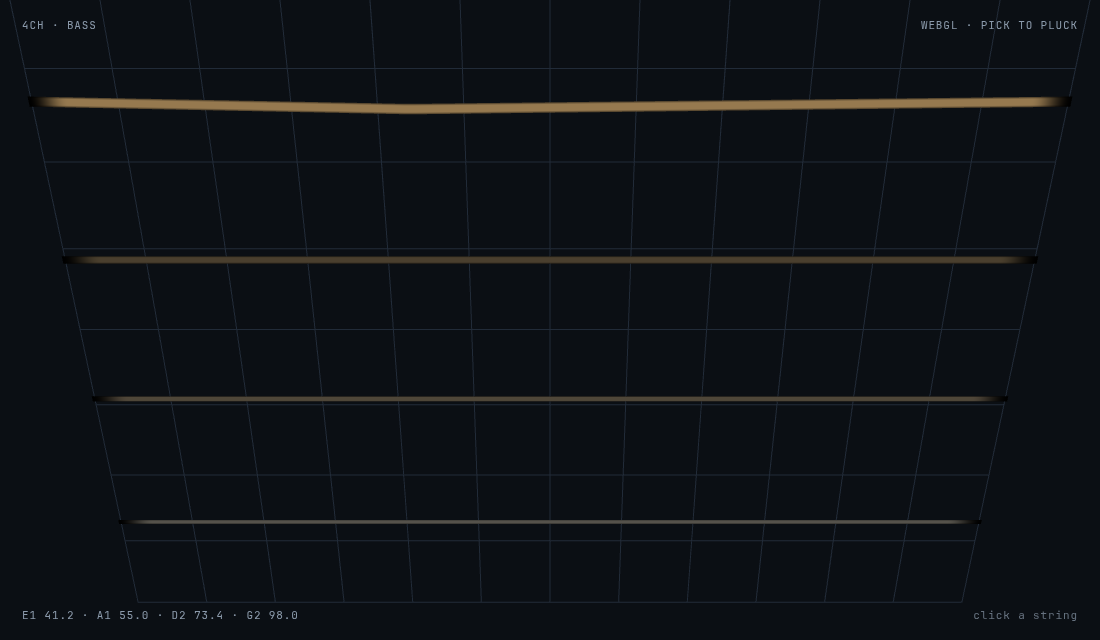
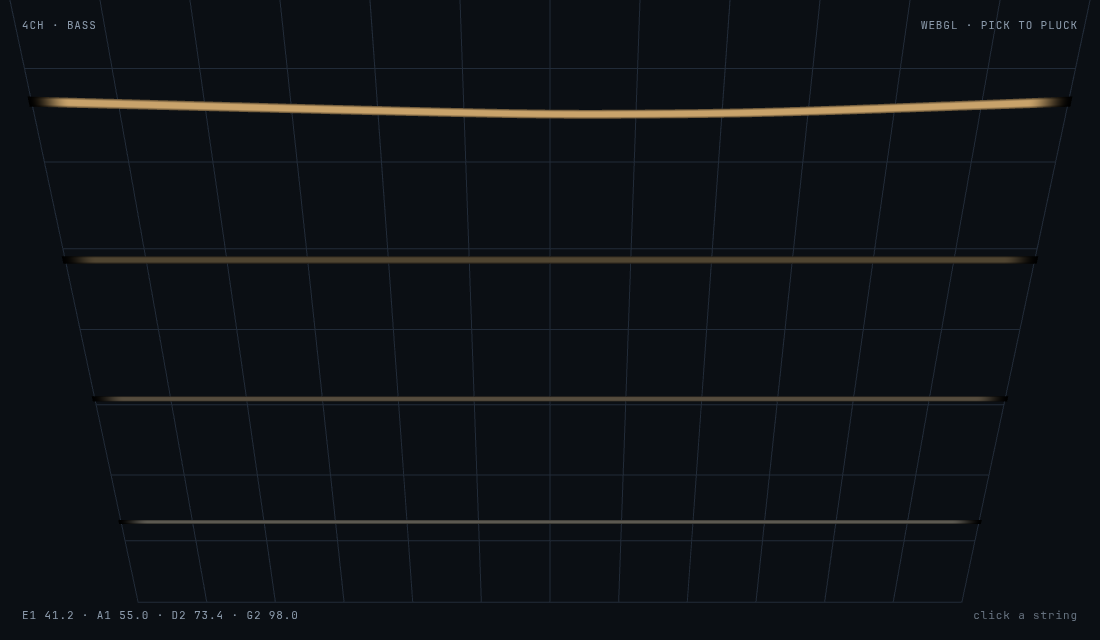
Put a modal pluck in the string shader
Replace the single sine with Fourier modes of a triangle pluck.
Click position chooses which harmonics speak; stiffness pulls
high modes sharp, like a wound bass string.

Changed region(s): [[0.0309, 0.125, 0.9582, 0.1875]]

diff --git a/strings/index.html b/strings/index.html
@@ -42,7 +42,7 @@
       { name: "D2", hz: 73.42, y: -0.30, width: 0.012, color: [0.89, 0.79, 0.64] },
       { name: "G2", hz: 97.99, y: -0.90, width: 0.010, color: [0.95, 0.92, 0.84] },
     ];
-    const X0 = -1.85, X1 = 1.85, SEGMENTS = 96;
+    const X0 = -1.85, X1 = 1.85, SEGMENTS = 192;
 
     const canvas = document.getElementById("c");
     const gl = canvas.getContext("webgl2", { antialias: true, alpha: false });
@@ -76,34 +76,53 @@
       layout(location=1) in float aU;
       layout(location=2) in float aSide;
       uniform mat4 uMVP;
-      uniform float uAmp, uPluck, uPhase, uWidth, uY;
+      uniform float uAmp, uPluck, uTime, uOmega, uWidth, uY;
       out float vU;
       out float vN;
-      float tri(float u, float p) {
-        p = clamp(p, 0.06, 0.94);
-        return u < p ? u / p : (1.0 - u) / (1.0 - p);
+      out float vEnergy;
+
+      // Fourier of a triangle pluck. Click position p decides which
+      // harmonics speak: neck is round, bridge has more snarl.
+      // Wound-bass stiffness (B) pulls high modes sharp, like a real E string.
+      float modal(float u, float t, float p, float omega, float B, float damp) {
+        p = clamp(p, 0.08, 0.92);
+        float y = 0.0;
+        const float pi = 3.14159265;
+        for (int n = 1; n <= 12; n++) {
+          float fn = float(n);
+          float a = sin(fn * pi * p) / (fn * fn);
+          float stiff = sqrt(1.0 + B * fn * fn);
+          float decay = exp(-damp * fn * t);
+          y += a * sin(fn * pi * u) * cos(omega * fn * stiff * t) * decay;
+        }
+        return y * 1.85;
       }
+
       void main() {
-        float disp = uAmp * tri(aU, uPluck) * sin(uPhase);
+        float zWave = modal(aU, uTime, uPluck, uOmega, 0.00038, 0.52);
+        // Second polarization, slightly detuned — the shimmer of a wound string.
+        float yWave = modal(aU, uTime, uPluck, uOmega * 1.004, 0.00031, 0.70);
         vec3 pos = aPos;
-        pos.y = uY + aSide * uWidth;
-        pos.z += disp;
+        pos.y = uY + aSide * uWidth + uAmp * yWave * 0.32;
+        pos.z += uAmp * zWave;
         vU = aU;
         vN = aSide;
+        vEnergy = abs(zWave) * uAmp;
         gl_Position = uMVP * vec4(pos, 1.0);
       }
     `, `#version 300 es
       precision highp float;
       in float vU;
       in float vN;
+      in float vEnergy;
       uniform vec3 uColor;
       uniform float uAmp;
       out vec4 outColor;
       void main() {
-        float edge = 1.0 - smoothstep(0.55, 1.0, abs(vN));
-        float glow = 0.35 + 0.65 * clamp(uAmp * 4.0, 0.0, 1.0);
-        vec3 col = uColor * (0.55 + 0.45 * edge) * glow;
-        float fade = smoothstep(0.0, 0.04, vU) * smoothstep(1.0, 0.96, vU);
+        float edge = 1.0 - smoothstep(0.45, 1.0, abs(vN));
+        float glow = 0.38 + 0.62 * clamp(uAmp * 3.2 + vEnergy * 2.4, 0.0, 1.0);
+        vec3 col = uColor * (0.52 + 0.48 * edge) * glow;
+        float fade = smoothstep(0.0, 0.035, vU) * smoothstep(1.0, 0.965, vU);
         outColor = vec4(col * fade, 1.0);
       }
     `);
@@ -182,7 +201,8 @@
       mvp: gl.getUniformLocation(stringProg, "uMVP"),
       amp: gl.getUniformLocation(stringProg, "uAmp"),
       pluck: gl.getUniformLocation(stringProg, "uPluck"),
-      phase: gl.getUniformLocation(stringProg, "uPhase"),
+      time: gl.getUniformLocation(stringProg, "uTime"),
+      omega: gl.getUniformLocation(stringProg, "uOmega"),
       width: gl.getUniformLocation(stringProg, "uWidth"),
       y: gl.getUniformLocation(stringProg, "uY"),
       color: gl.getUniformLocation(stringProg, "uColor"),
@@ -431,13 +451,11 @@
       gl.bindVertexArray(stringMesh.vao);
       STRINGS.forEach((s, i) => {
         const st = state[i];
-        const age = now - st.t0;
-        const amp = st.amp * Math.exp(-1.8 * age);
-        st.amp = amp;
-        const omega = s.hz * Math.PI * 2 / 18;
-        gl.uniform1f(loc.amp, amp);
+        const age = Math.max(0, now - st.t0);
+        gl.uniform1f(loc.amp, st.amp);
         gl.uniform1f(loc.pluck, st.pluck);
-        gl.uniform1f(loc.phase, omega * age);
+        gl.uniform1f(loc.time, age);
+        gl.uniform1f(loc.omega, s.hz * Math.PI * 2 / 12);
         gl.uniform1f(loc.width, s.width);
         gl.uniform1f(loc.y, s.y);
         gl.uniform3fv(loc.color, s.color);
